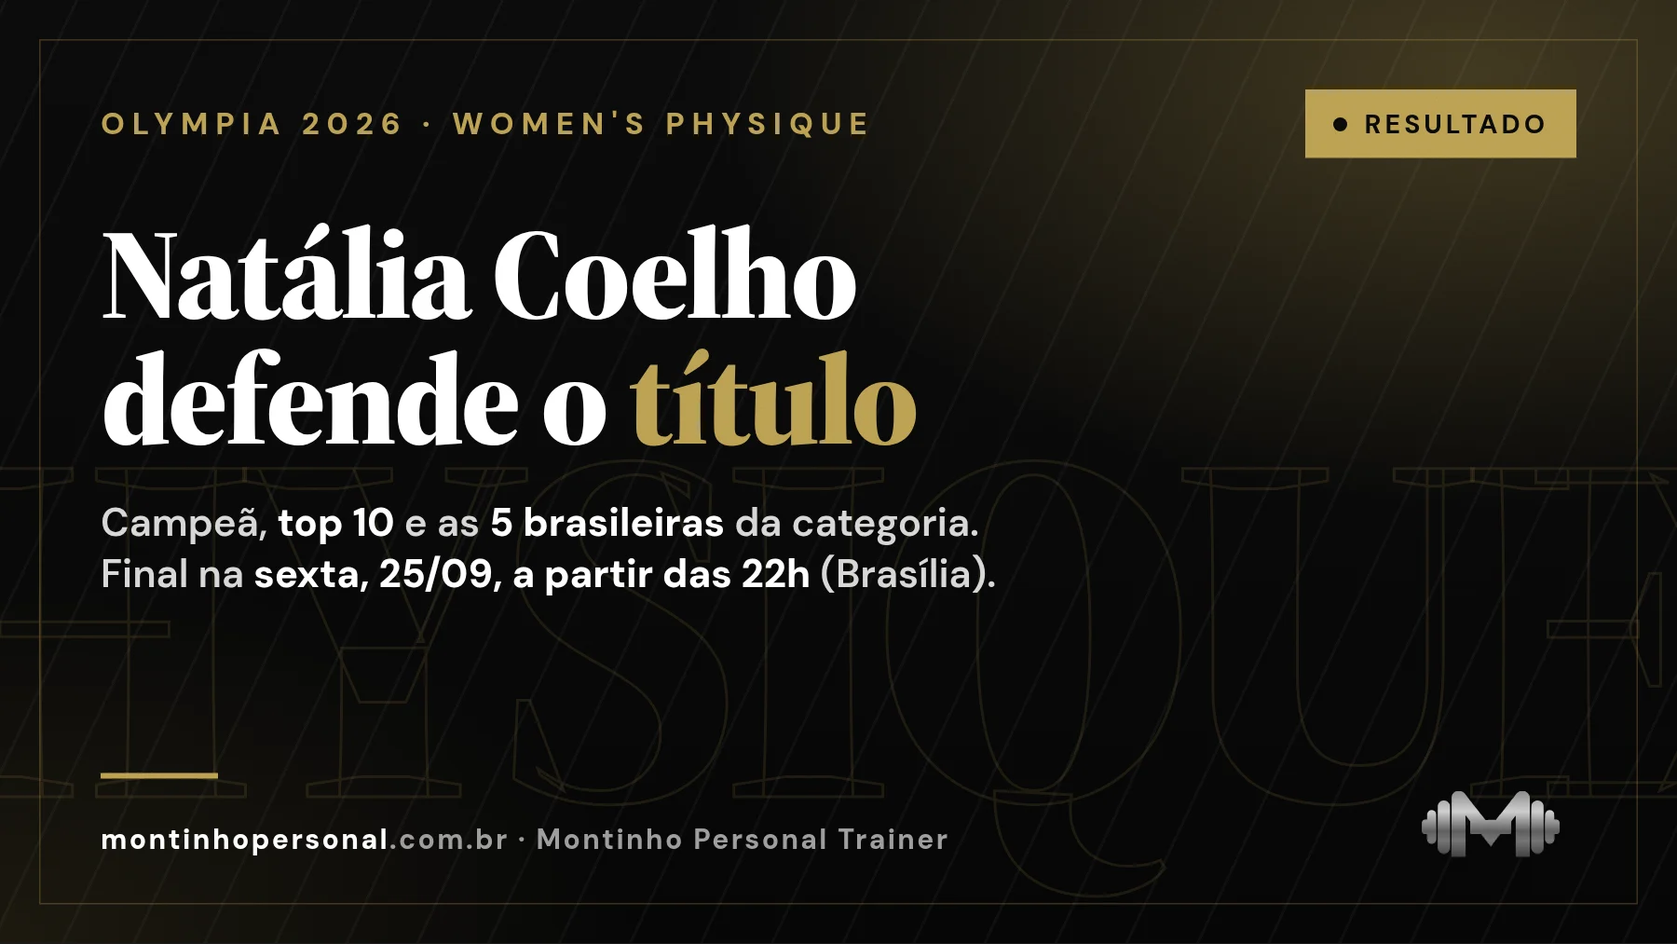
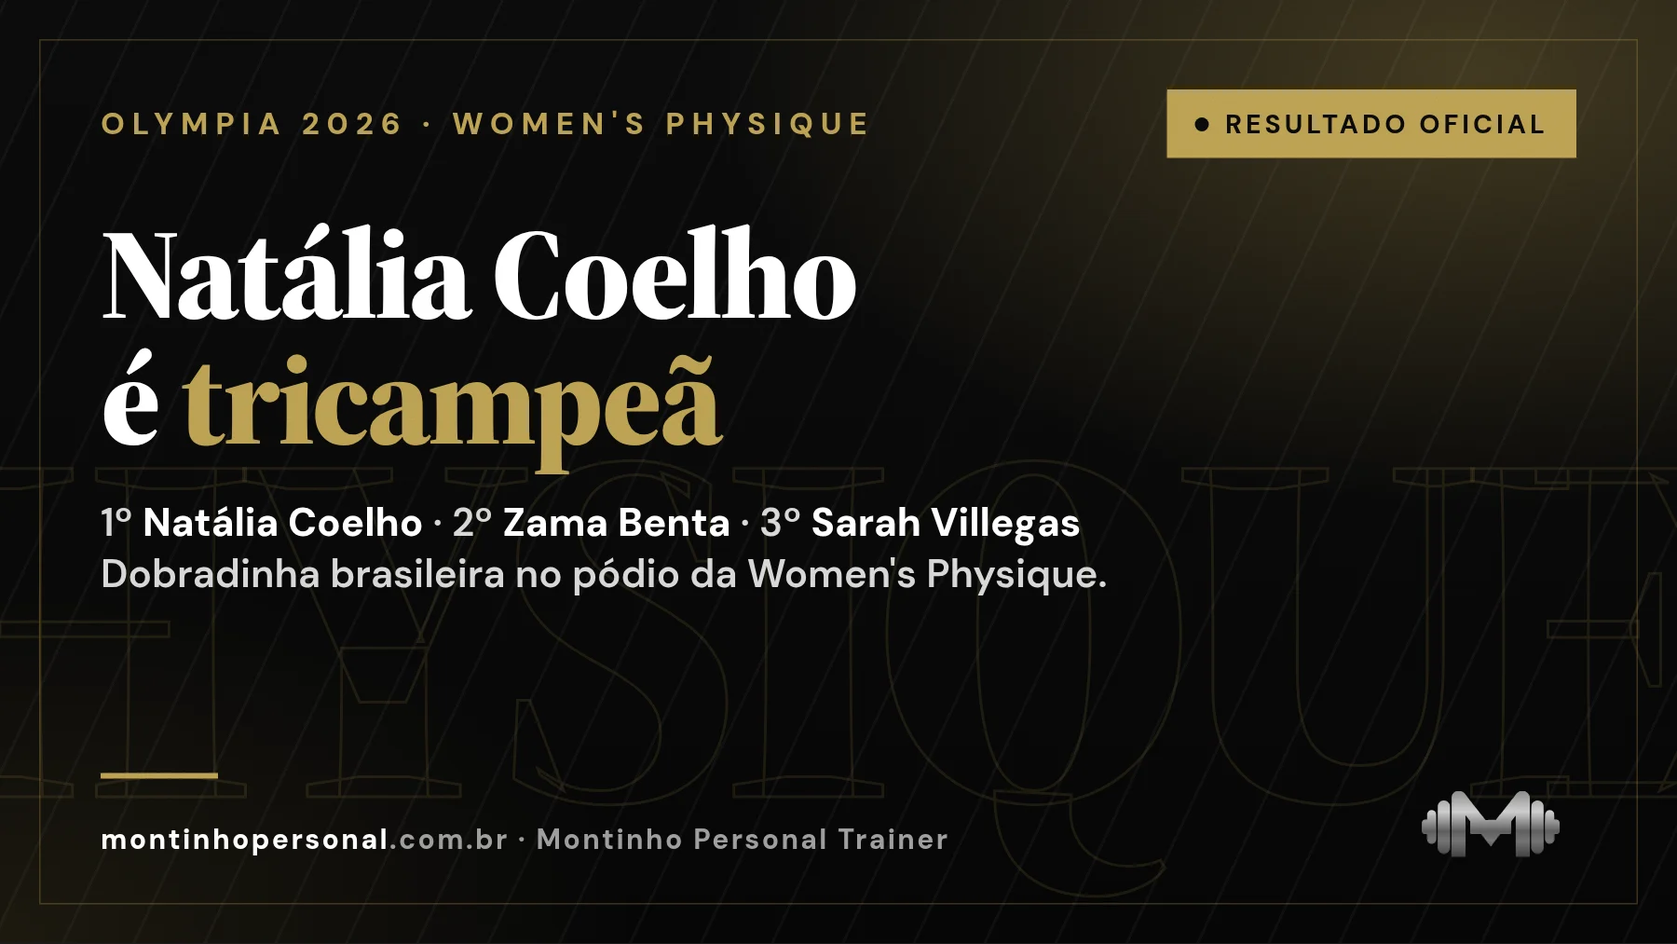
Olympia 2026: resultados de sexta (Women's Physique top 3, 212 e Figure campeões)
Claude-Session: https://claude.ai/code/session_01FouRqAub4iiTyoNafYmiNy

Changed region(s): [[0.0622, 0.5202, 0.6533, 0.6426], [0.0622, 0.3672, 0.56, 0.5202], [0.6844, 0.0918, 0.9333, 0.1836]]

diff --git a/lib/olympia-2026.ts b/lib/olympia-2026.ts
@@ -228,10 +228,11 @@ ${FONTES}`,
     category: "Fisiculturismo",
     tipo: "noticia",
     date: DATA,
+    updatedAt: "2026-09-26",
     readTime: "5 min",
     author: AUTOR,
     tags: ["Mr. Olympia 2026", "campeões", "resultados", "fisiculturismo", "Las Vegas"],
-    content: `${AVISO_ANTES("Nenhuma categoria do Mr. Olympia 2026 foi decidida ainda.")}
+    content: `<blockquote><p><strong>Já decididas: Women's Physique, 212 e Figure.</strong> As outras entram assim que o resultado oficial for confirmado. Última verificação: 26 de setembro de 2026, 0h (Brasília).</p></blockquote>
 <p>O Mr. Olympia 2026 acontece de 24 a 27 de setembro em Las Vegas, com 322 atletas em 12 categorias — 58 deles brasileiros. As finais são <strong>nesta sexta (25) a partir das 22h</strong> e <strong>no sábado (26) a partir das 23h</strong>, no horário de Brasília. Esta página reúne todos os campeões e é atualizada categoria por categoria, à medida que os resultados oficiais saem.</p>
 ${CAPA("quem-ganhou-mr-olympia-2026", "Capa: quem ganhou o Mr. Olympia 2026 — todos os campeões, categoria por categoria: Open, Classic Physique, Wellness, 212, Men's Physique, Bikini e mais")}
 
@@ -239,9 +240,9 @@ ${CAPA("quem-ganhou-mr-olympia-2026", "Capa: quem ganhou o Mr. Olympia 2026 — 
 <table><thead><tr><th>Categoria</th><th>Final</th><th>Campeão(ã) 2026</th><th>Campeão(ã) 2025</th><th>Resultado</th></tr></thead><tbody>
 <tr><td>Classic Physique</td><td>Sex 25/09, 22h</td><td>A definir</td><td>Ramon Dino (BRA)</td><td><a href="/blog/resultado-classic-physique-mr-olympia-2026">Ver resultado</a></td></tr>
 <tr><td>Wellness</td><td>Sex 25/09, 22h</td><td>A definir</td><td>Eduarda Bezerra (BRA)</td><td><a href="/blog/resultado-wellness-mr-olympia-2026">Ver resultado</a></td></tr>
-<tr><td>212</td><td>Sex 25/09, 22h</td><td>A definir</td><td>Keone Pearson (EUA)</td><td><a href="/blog/resultado-212-mr-olympia-2026">Ver resultado</a></td></tr>
-<tr><td>Figure</td><td>Sex 25/09, 22h</td><td>A definir</td><td>Rhea Gayle (GBR)</td><td>Nesta página</td></tr>
-<tr><td>Women's Physique</td><td>Sex 25/09, 22h</td><td>A definir</td><td>Natalia Abraham Coelho (EUA)</td><td><a href="/blog/resultado-womens-physique-olympia-2026">Ver resultado</a></td></tr>
+<tr><td>212</td><td>Sex 25/09, 22h</td><td><strong>Keone Pearson (EUA)</strong></td><td>Keone Pearson (EUA)</td><td><a href="/blog/resultado-212-mr-olympia-2026">Ver resultado</a></td></tr>
+<tr><td>Figure</td><td>Sex 25/09, 22h</td><td><strong>Lola Montez</strong></td><td>Rhea Gayle (GBR)</td><td>Nesta página</td></tr>
+<tr><td>Women's Physique</td><td>Sex 25/09, 22h</td><td><strong>Natalia Abraham Coelho (EUA)</strong></td><td>Natalia Abraham Coelho (EUA)</td><td><a href="/blog/resultado-womens-physique-olympia-2026">Ver resultado</a></td></tr>
 <tr><td>Ms. Olympia</td><td>Sex 25/09, 22h</td><td>A definir</td><td>Andrea Shaw (EUA)</td><td>Nesta página</td></tr>
 <tr><td>Fitness</td><td>Sáb 26/09, 23h</td><td>A definir</td><td>Michelle Fredua-Mensah (GBR)</td><td>Nesta página</td></tr>
 <tr><td>Men's Physique</td><td>Sáb 26/09, 23h</td><td>A definir</td><td>Ryan Terry (GBR)</td><td><a href="/blog/resultado-mens-physique-olympia-2026">Ver resultado</a></td></tr>
@@ -480,41 +481,41 @@ ${FONTES}`,
   /* ───────────────── 7. RESULTADO 212 ───────────────── */
   {
     slug: "resultado-212-mr-olympia-2026",
-    title: "Resultado 212 Mr. Olympia 2026: campeão, Top 10 e brasileiros",
-    metaTitle: "Resultado 212 Olympia 2026: Campeão, Top 10 e Lucas Garcia",
+    title: "Keone Pearson é tetracampeão da 212 no Mr. Olympia 2026; veja os brasileiros",
+    metaTitle: "Resultado 212 Olympia 2026: Keone Pearson Tetra e Lucas Garcia",
     metaDescription:
-      "Quem ganhou a 212 do Mr. Olympia 2026 e como ficaram Lucas Garcia e os outros três brasileiros. Final nesta sexta, 25/09, a partir das 22h de Brasília.",
+      "Keone Pearson venceu a 212 do Mr. Olympia 2026, o quarto título seguido. Lucas Garcia e Vitor Porto estiveram entre os finalistas; colocações a confirmar.",
     excerpt:
-      "A 212 do Mr. Olympia 2026 é decidida nesta sexta-feira, 25 de setembro. Campeão, top 10 e a colocação dos quatro brasileiros entram aqui assim que saem.",
+      "Keone Pearson venceu a 212 do Mr. Olympia 2026 e chegou ao quarto título seguido. Lucas Garcia e Vitor Porto estiveram entre os finalistas.",
     category: "Fisiculturismo",
     tipo: "noticia",
     date: DATA,
+    updatedAt: "2026-09-26",
     readTime: "3 min",
     author: AUTOR,
     tags: ["Mr. Olympia 2026", "212", "Lucas Garcia", "resultado", "fisiculturismo"],
-    content: `${AVISO_ONDA2("O resultado da 212 do Mr. Olympia 2026 ainda não foi definido.")}
-<p><strong>A 212 ainda não aconteceu.</strong> As prévias começam às <strong>13h30 de sexta-feira, 25 de setembro</strong> (Brasília), e a final a partir das <strong>22h</strong> do mesmo dia, em Las Vegas. Keone Pearson (EUA) defende o tricampeonato. O Brasil tem quatro atletas na categoria: <strong>Lucas Garcia</strong>, terceiro colocado em 2025, <strong>Vitor Porto</strong>, <strong>Felipe Moraes</strong> e <strong>Andrey Pereira</strong>.</p>
-<!--OLYMPIA_CONTAGEM:212-->
+    content: `<blockquote><p><strong>Campeão oficial definido; a colocação exata dos brasileiros ainda está sendo confirmada.</strong> Última verificação: 26 de setembro de 2026, 0h (Brasília).</p></blockquote>
+<p><strong>Keone Pearson (EUA) venceu a 212 do Mr. Olympia 2026</strong>, na noite de sexta-feira, 25 de setembro, em Las Vegas, e chegou ao quarto título seguido. Os brasileiros <strong>Lucas Garcia</strong> e <strong>Vitor Porto</strong> estiveram entre os finalistas, ao lado de Shaun Clarida e Nihat Kaya. A colocação exata de cada um entra aqui assim que a classificação oficial for confirmada.</p>
 ${CAPA("resultado-212-mr-olympia-2026", "Capa: resultado da 212 do Mr. Olympia 2026 — Keone Pearson defende o título e Lucas Garcia lidera os quatro brasileiros; final na sexta às 22h de Brasília")}
 
 <h2 id="resultado">Resultado 212 Olympia 2026</h2>
-${TABELA_PENDENTE(10)}
-<p><em>Tabela preenchida com o resultado oficial da IFBB Pro League, depois da final. Se só o top 5 for divulgado na noite, só o top 5 entra.</em></p>
+<table><thead><tr><th>Posição</th><th>Atleta</th><th>País</th></tr></thead><tbody><tr><td>1º</td><td>Keone Pearson</td><td>EUA</td></tr><tr><td>2º</td><td>A confirmar</td><td>—</td></tr><tr><td>3º</td><td>A confirmar</td><td>—</td></tr><tr><td>4º</td><td>A confirmar</td><td>—</td></tr><tr><td>5º</td><td>A confirmar</td><td>—</td></tr></tbody></table>
+<p><em>Campeão confirmado por CNN Brasil e Fitness Volt. As fontes publicadas até agora divergem sobre a ordem do 2º ao 5º lugar, por isso essas posições ficam em branco até a confirmação.</em></p>
 
 <h2>Como ficaram os brasileiros na 212?</h2>
 <table><thead><tr><th>Atleta</th><th>Resultado</th><th>Status</th></tr></thead><tbody>
-<tr><td>Lucas Garcia</td><td>A definir</td><td>Aguardando prévias (sexta, 13h30)</td></tr>
-<tr><td>Vitor Porto</td><td>A definir</td><td>Aguardando prévias (sexta, 13h30)</td></tr>
-<tr><td>Felipe Moraes</td><td>A definir</td><td>Aguardando prévias (sexta, 13h30)</td></tr>
-<tr><td>Andrey Pereira</td><td>A definir</td><td>Aguardando prévias (sexta, 13h30)</td></tr>
+<tr><td>Lucas Garcia</td><td>Finalista (posição a confirmar)</td><td>Competiu</td></tr>
+<tr><td>Vitor Porto</td><td>Finalista (posição a confirmar)</td><td>Competiu</td></tr>
+<tr><td>Felipe Moraes</td><td>A confirmar</td><td>Competiu</td></tr>
+<tr><td>Andrey Pereira</td><td>A confirmar</td><td>Competiu</td></tr>
 </tbody></table>
 <p>Os quatro aparecem no roster oficial da IFBB Pro League representando o Brasil (Vitor Porto está inscrito como Vitor Alves Porto de Oliveira). Como foram os brasileiros das outras categorias: <a href="/blog/brasileiros-mr-olympia-2026">brasileiros no Mr. Olympia 2026</a>.</p>
 
 <h2>Em que posição Lucas Garcia ficou?</h2>
-<p><strong>Ainda não há resultado.</strong> Lucas Garcia, paulista, chega como o brasileiro mais bem colocado da categoria: em 2025, na estreia no Olympia, terminou em <strong>terceiro</strong>, atrás de Keone Pearson e Shaun Clarida, com Nihat Kaya (Turquia) em quarto e Courage Opara (EUA) em quinto. A colocação de 2026 entra aqui logo após a final.</p>
+<p><strong>Lucas Garcia esteve entre os finalistas; a posição exata ainda está sendo confirmada</strong> (as primeiras fontes divergem). Paulista, ele chegou como o brasileiro mais bem colocado da categoria: em 2025, na estreia no Olympia, terminou em <strong>terceiro</strong>, atrás de Keone Pearson e Shaun Clarida, com Nihat Kaya (Turquia) em quarto e Courage Opara (EUA) em quinto. A colocação de 2026 entra aqui assim que for confirmada.</p>
 
 <h2>Quem ganhou a 212 Olympia 2026?</h2>
-<p><strong>Ainda não foi decidido.</strong> Os nomes mais citados pela imprensa especializada:</p>
+<p><strong>Keone Pearson</strong>, que venceu o pose down final e chegou ao quarto título seguido (2023, 2024, 2025 e 2026). Os favoritos antes da final eram:</p>
 <ul>
 <li><strong>Keone Pearson (EUA)</strong> — campeão em 2023, 2024 e 2025, busca o quarto título seguido.</li>
 <li><strong>Shaun Clarida (EUA)</strong> — ex-campeão da categoria e vice em 2025.</li>
@@ -549,8 +550,8 @@ ${ACOMPANHE("resultado-212-mr-olympia-2026")}
 ${CTA_MASSA}
 ${FONTES}`,
     faq: [
-      { question: "Quem ganhou a 212 do Mr. Olympia 2026?", answer: "Ainda não foi decidido. A final é na sexta-feira, 25 de setembro, a partir das 22h (Brasília). Keone Pearson defende o título, e esta página é atualizada com o resultado oficial." },
-      { question: "Em que posição Lucas Garcia ficou na 212?", answer: "Ainda não há resultado de 2026. Em 2025, na estreia no Olympia, Lucas Garcia ficou em terceiro, atrás de Keone Pearson e Shaun Clarida." },
+      { question: "Quem ganhou a 212 do Mr. Olympia 2026?", answer: "Keone Pearson (EUA), que chegou ao quarto título seguido na categoria." },
+      { question: "Em que posição Lucas Garcia ficou na 212?", answer: "Lucas Garcia esteve entre os finalistas de 2026; a posição exata ainda está sendo confirmada. Em 2025, na estreia no Olympia, ele ficou em terceiro." },
       { question: "Quantos brasileiros competem na 212 do Olympia 2026?", answer: "Quatro, pelo roster oficial da IFBB Pro League: Lucas Garcia, Vitor Porto, Felipe Moraes e Andrey Pereira." },
       { question: "Qual é o limite de peso da 212?", answer: "212 libras, cerca de 96,2 kg, na pesagem oficial, para qualquer altura." },
     ],
@@ -558,45 +559,45 @@ ${FONTES}`,
   /* ───────────────── 8. RESULTADO WOMEN'S PHYSIQUE ───────────────── */
   {
     slug: "resultado-womens-physique-olympia-2026",
-    title: "Resultado Women's Physique Olympia 2026: Natália Coelho e classificação",
-    metaTitle: "Resultado Women's Physique Olympia 2026: Natália Coelho",
+    title: "Natália Coelho é tricampeã da Women's Physique no Olympia 2026; Zama Benta é vice",
+    metaTitle: "Natália Coelho é Tricampeã da Women's Physique no Olympia 2026",
     metaDescription:
-      "Quem ganhou a Women's Physique do Olympia 2026, a posição de Natália Coelho e das brasileiras. Final nesta sexta, 25/09, a partir das 22h de Brasília.",
+      "Natália Coelho venceu a Women's Physique do Mr. Olympia 2026, o terceiro título dela. A brasileira Zama Benta foi vice e Sarah Villegas ficou em 3º.",
     excerpt:
-      "A Women's Physique do Olympia 2026 é decidida nesta sexta-feira, 25 de setembro. Natália Coelho defende o título; campeã, top 10 e brasileiras entram aqui.",
+      "Natália Coelho venceu a Women's Physique do Mr. Olympia 2026 e chegou ao terceiro título. Zama Benta, brasileira, foi vice; Sarah Villegas terminou em 3º.",
     category: "Fisiculturismo",
     tipo: "noticia",
     date: DATA,
+    updatedAt: "2026-09-26",
     readTime: "3 min",
     author: AUTOR,
     tags: ["Mr. Olympia 2026", "Women's Physique", "Natália Coelho", "resultado", "fisiculturismo"],
-    content: `${AVISO_ONDA2("O resultado da Women's Physique do Olympia 2026 ainda não foi definido.")}
-<p><strong>A Women's Physique ainda não aconteceu.</strong> As prévias começam às <strong>13h30 de sexta-feira, 25 de setembro</strong> (Brasília), e a final a partir das <strong>22h</strong>, em Las Vegas. <strong>Natália Coelho</strong> defende o título conquistado em 2025, o segundo dela na categoria. <strong>Zama Benta</strong>, terceira colocada no ano passado, é a principal representante do Brasil no roster.</p>
-<!--OLYMPIA_CONTAGEM:womens-physique-->
-${CAPA("resultado-womens-physique-olympia-2026", "Capa: resultado da Women's Physique do Olympia 2026 — Natália Coelho defende o título e cinco brasileiras disputam a categoria; final na sexta às 22h de Brasília")}
+    content: `<blockquote><p><strong>Resultado oficial.</strong> Última verificação: 26 de setembro de 2026, 0h (Brasília).</p></blockquote>
+<p><strong>Natália Coelho venceu a Women's Physique do Mr. Olympia 2026</strong>, na noite de sexta-feira, 25 de setembro, em Las Vegas, e chegou ao terceiro título na categoria (2022, 2025 e 2026). A brasileira <strong>Zama Benta foi vice-campeã</strong>, e Sarah Villegas terminou em terceiro.</p>
+${CAPA("resultado-womens-physique-olympia-2026", "Capa: Natália Coelho é tricampeã da Women's Physique no Mr. Olympia 2026; Zama Benta é vice e Sarah Villegas fica em terceiro")}
 
 <h2 id="resultado">Resultado Women's Physique Olympia 2026</h2>
-${TABELA_PENDENTE(10)}
-<p><em>Tabela preenchida com o resultado oficial da IFBB Pro League, depois da final. Se só o top 5 for divulgado na noite, só o top 5 entra.</em></p>
+<table><thead><tr><th>Posição</th><th>Atleta</th><th>País (roster)</th></tr></thead><tbody><tr><td>1º</td><td>Natalia Abraham Coelho</td><td>EUA</td></tr><tr><td>2º</td><td>Zama Benta</td><td>Brasil</td></tr><tr><td>3º</td><td>Sarah Villegas</td><td>EUA</td></tr><tr><td>4º</td><td>A confirmar</td><td>—</td></tr><tr><td>5º</td><td>A confirmar</td><td>—</td></tr></tbody></table>
+<p><em>Top 3 confirmado por CNN Brasil, NSC Total, Fitness Volt e Generation Iron. As demais posições entram quando a classificação completa for publicada.</em></p>
 
 <h2>Em que posição Natália Coelho ficou?</h2>
-<p><strong>Ainda não há resultado.</strong> Natália Coelho chega como atual campeã: venceu em 2025 à frente de Sarah Villegas (EUA), repetindo o título de 2022. Brasileira, ela aparece no roster oficial da IFBB Pro League <strong>representando os Estados Unidos</strong>, onde vive e compete. Por isso a tabela oficial mostra "EUA" ao lado do nome dela. A colocação de 2026 entra aqui logo após a final.</p>
+<p><strong>Natália Coelho foi campeã.</strong> É o terceiro título dela na Women's Physique, depois de 2022 e 2025. Levou o prêmio de US$ 50 mil. Brasileira, ela aparece no roster oficial da IFBB Pro League <strong>representando os Estados Unidos</strong>, onde vive e compete. Por isso a tabela oficial mostra "EUA" ao lado do nome dela. A colocação de 2026 entra aqui logo após a final.</p>
 
 <h2>Como ficaram Zama Benta e as brasileiras?</h2>
 <table><thead><tr><th>Atleta</th><th>Representação no roster</th><th>Resultado</th><th>Status</th></tr></thead><tbody>
-<tr><td>Natália Coelho</td><td>EUA</td><td>A definir</td><td>Aguardando prévias</td></tr>
-<tr><td>Zama Benta</td><td>Brasil</td><td>A definir</td><td>Aguardando prévias</td></tr>
-<tr><td>Jessica Macedo</td><td>Brasil</td><td>A definir</td><td>Aguardando prévias</td></tr>
-<tr><td>Naiana Nana</td><td>Brasil</td><td>A definir</td><td>Aguardando prévias</td></tr>
-<tr><td>Amanda de Carvalho Machado</td><td>EUA</td><td>A definir</td><td>Aguardando prévias</td></tr>
+<tr><td>Natália Coelho</td><td>EUA</td><td>1º lugar</td><td>Resultado oficial</td></tr>
+<tr><td>Zama Benta</td><td>Brasil</td><td>2º lugar</td><td>Resultado oficial</td></tr>
+<tr><td>Jessica Macedo</td><td>Brasil</td><td>A confirmar</td><td>Competiu</td></tr>
+<tr><td>Naiana Nana</td><td>Brasil</td><td>A confirmar</td><td>Competiu</td></tr>
+<tr><td>Amanda de Carvalho Machado</td><td>EUA</td><td>A confirmar</td><td>Competiu</td></tr>
 </tbody></table>
-<p>A imprensa brasileira conta cinco brasileiras na categoria. No roster oficial, três estão listadas pelo Brasil e duas pelos EUA. A coluna "representação" mostra o país que a IFBB Pro League exibe, não a nacionalidade. <strong>Zama Benta</strong> foi terceira em 2025, atrás de Natália e de Sarah Villegas. Os brasileiros de todas as categorias estão no <a href="/blog/brasileiros-mr-olympia-2026">painel Brasil do Olympia</a>.</p>
+<p>A imprensa brasileira conta cinco brasileiras na categoria. No roster oficial, três estão listadas pelo Brasil e duas pelos EUA. A coluna "representação" mostra o país que a IFBB Pro League exibe, não a nacionalidade. <strong>Zama Benta</strong>, terceira em 2025, subiu para <strong>vice-campeã</strong> em 2026: dobradinha brasileira no pódio. Os brasileiros de todas as categorias estão no <a href="/blog/brasileiros-mr-olympia-2026">painel Brasil do Olympia</a>.</p>
 
 <h2>Top 5 Women's Physique</h2>
-<p>Ainda não definido. As mais citadas pela imprensa especializada para o primeiro chamado: Natália Coelho, Sarah Villegas (quatro vezes campeã e vice em 2025), Zama Benta, Brittany Herrera (quarta em 2025) e Lenka Ferencukova (Eslováquia), vencedora de dois shows profissionais nesta temporada.</p>
+<p>Pódio oficial: 1º Natália Coelho, 2º Zama Benta, 3º Sarah Villegas. O 4º e o 5º lugares entram quando a classificação completa for publicada.</p>
 
 <h2 id="como-foram-as-previas">Como foram as prévias?</h2>
-<p>As prévias ainda não aconteceram. Depois delas, esta seção vai registrar quem foi chamado para as primeiras comparações. Chamado não é resultado: a colocação só existe depois da final.</p>
+<p>As prévias foram na tarde de sexta-feira e a final à noite, na Orleans Arena. A disputa chegou cercada de tensão entre Natália e Sarah Villegas, que tinha feito acusações públicas contra a rival antes do evento; o resultado foi decidido pelos árbitros, no palco.</p>
 
 <h2 id="horario">Horário da final</h2>
 <ul>
@@ -619,8 +620,8 @@ ${ACOMPANHE("resultado-womens-physique-olympia-2026")}
 ${CTA_MONTINHO}
 ${FONTES}`,
     faq: [
-      { question: "Quem ganhou a Women's Physique do Olympia 2026?", answer: "Ainda não foi decidido. A final é na sexta-feira, 25 de setembro, a partir das 22h (Brasília). Natália Coelho defende o título, e esta página é atualizada com o resultado oficial." },
-      { question: "Em que posição Natália Coelho ficou?", answer: "Ainda não há resultado de 2026. Natália é a atual campeã: venceu em 2025 e em 2022." },
+      { question: "Quem ganhou a Women's Physique do Olympia 2026?", answer: "Natália Coelho, que chegou ao terceiro título na categoria (2022, 2025 e 2026). A brasileira Zama Benta foi vice e Sarah Villegas terminou em terceiro." },
+      { question: "Em que posição Natália Coelho ficou?", answer: "Em primeiro. Natália Coelho venceu a Women's Physique do Mr. Olympia 2026, o terceiro título dela." },
       { question: "Natália Coelho compete pelo Brasil?", answer: "Natália é brasileira, mas aparece no roster oficial da IFBB Pro League representando os Estados Unidos, onde vive e compete." },
       { question: "Quantas brasileiras competem na Women's Physique 2026?", answer: "Cinco pela contagem da imprensa brasileira: Natália Coelho, Zama Benta, Jessica Macedo, Naiana Nana e Amanda de Carvalho Machado. No roster oficial, três aparecem pelo Brasil e duas pelos EUA." },
     ],

diff --git a/lib/olympia-brasil.ts b/lib/olympia-brasil.ts
@@ -64,11 +64,11 @@ export interface CategoriaOlympia {
 
 export const CATEGORIAS: CategoriaOlympia[] = [
   { id: "classic", nome: "Classic Physique", dia: "sexta", previas: "sextaPrevias", final: "sextaFinais", artigo: "resultado-classic-physique-mr-olympia-2026", temBrasileiro: true },
-  { id: "212", nome: "212", dia: "sexta", previas: "sextaPrevias", final: "sextaFinais", artigo: "resultado-212-mr-olympia-2026", temBrasileiro: true },
+  { id: "212", nome: "212", dia: "sexta", previas: "sextaPrevias", final: "sextaFinais", artigo: "resultado-212-mr-olympia-2026", temBrasileiro: true, previasConcluidas: true, resultadoOficial: true, campeao: "Keone Pearson" },
   { id: "wellness", nome: "Wellness", dia: "sexta", previas: "sextaPrevias", final: "sextaFinais", artigo: "resultado-wellness-mr-olympia-2026", temBrasileiro: true },
-  { id: "womens-physique", nome: "Women's Physique", dia: "sexta", previas: "sextaPrevias", final: "sextaFinais", artigo: "resultado-womens-physique-olympia-2026", temBrasileiro: true },
+  { id: "womens-physique", nome: "Women's Physique", dia: "sexta", previas: "sextaPrevias", final: "sextaFinais", artigo: "resultado-womens-physique-olympia-2026", temBrasileiro: true, previasConcluidas: true, resultadoOficial: true, campeao: "Natalia Abraham Coelho" },
   { id: "ms-olympia", nome: "Ms. Olympia", dia: "sexta", previas: "sextaPrevias", final: "sextaFinais", temBrasileiro: true },
-  { id: "figure", nome: "Figure", dia: "sexta", previas: "sextaPrevias", final: "sextaFinais" },
+  { id: "figure", nome: "Figure", dia: "sexta", previas: "sextaPrevias", final: "sextaFinais", previasConcluidas: true, resultadoOficial: true, campeao: "Lola Montez" },
   // O Open tem as prévias na sessão de sexta à noite e a final no sábado.
   { id: "open", nome: "Open (Mr. Olympia)", dia: "sabado", previas: "sextaFinais", final: "sabadoFinais", artigo: "resultado-mr-olympia-open-2026", temBrasileiro: true },
   { id: "mens-physique", nome: "Men's Physique", dia: "sabado", previas: "sabadoPrevias", final: "sabadoFinais", artigo: "resultado-mens-physique-olympia-2026", temBrasileiro: true },
@@ -200,8 +200,8 @@ export const ATLETAS_BRASIL: AtletaBrasil[] = [
   a("Eduarda Bezerra", "wellness", "Brasil", "Atual campeã"),
   a("Isa Pereira Nunes", "wellness", "Brasil", "Campeã em 2024"),
   a("Rayane Fogal", "wellness"),
-  a("Natália Coelho", "womens-physique", "EUA", "Atual campeã"),
-  a("Zama Benta", "womens-physique", "Brasil", "3ª em 2025"),
+  { ...a("Natália Coelho", "womens-physique", "EUA", "Tricampeã"), resultado: "1º lugar" },
+  { ...a("Zama Benta", "womens-physique", "Brasil", "3ª em 2025"), resultado: "2º lugar" },
   a("Jessica Macedo", "womens-physique"),
   a("Naiana Nana", "womens-physique"),
   a("Amanda de Carvalho Machado", "womens-physique", "EUA"),

diff --git a/scripts/olympia-agenda-test.ts b/scripts/olympia-agenda-test.ts
@@ -12,7 +12,9 @@ const at = (iso: string) => Date.parse(iso);
 ok(Date.parse(BLOCOS.sextaPrevias.inicio) === Date.UTC(2026, 8, 25, 16, 30), "prévias de sexta = 16h30 UTC");
 ok(Date.parse(BLOCOS.sabadoFinais.inicio) === Date.UTC(2026, 8, 27, 2, 0), "finais de sábado = 02h UTC de domingo");
 
-const c212 = categoria("212");
+// Motor testado com a categoria "limpa": os flags de resultado real mudam
+// durante o evento e não podem quebrar o teste da lógica de tempo.
+const c212 = { ...categoria("212"), previasConcluidas: undefined, resultadoOficial: undefined, campeao: undefined };
 ok(fase(c212, at("2026-09-25T13:29:59-03:00")) === "antes-previas", "212 antes das prévias");
 ok(alvo(c212, at("2026-09-25T10:00:00-03:00"))?.tipo === "previas", "alvo inicial = prévias");
 ok(fase(c212, at("2026-09-25T13:30:00-03:00")) === "previas", "212 no início do bloco → prévias");
